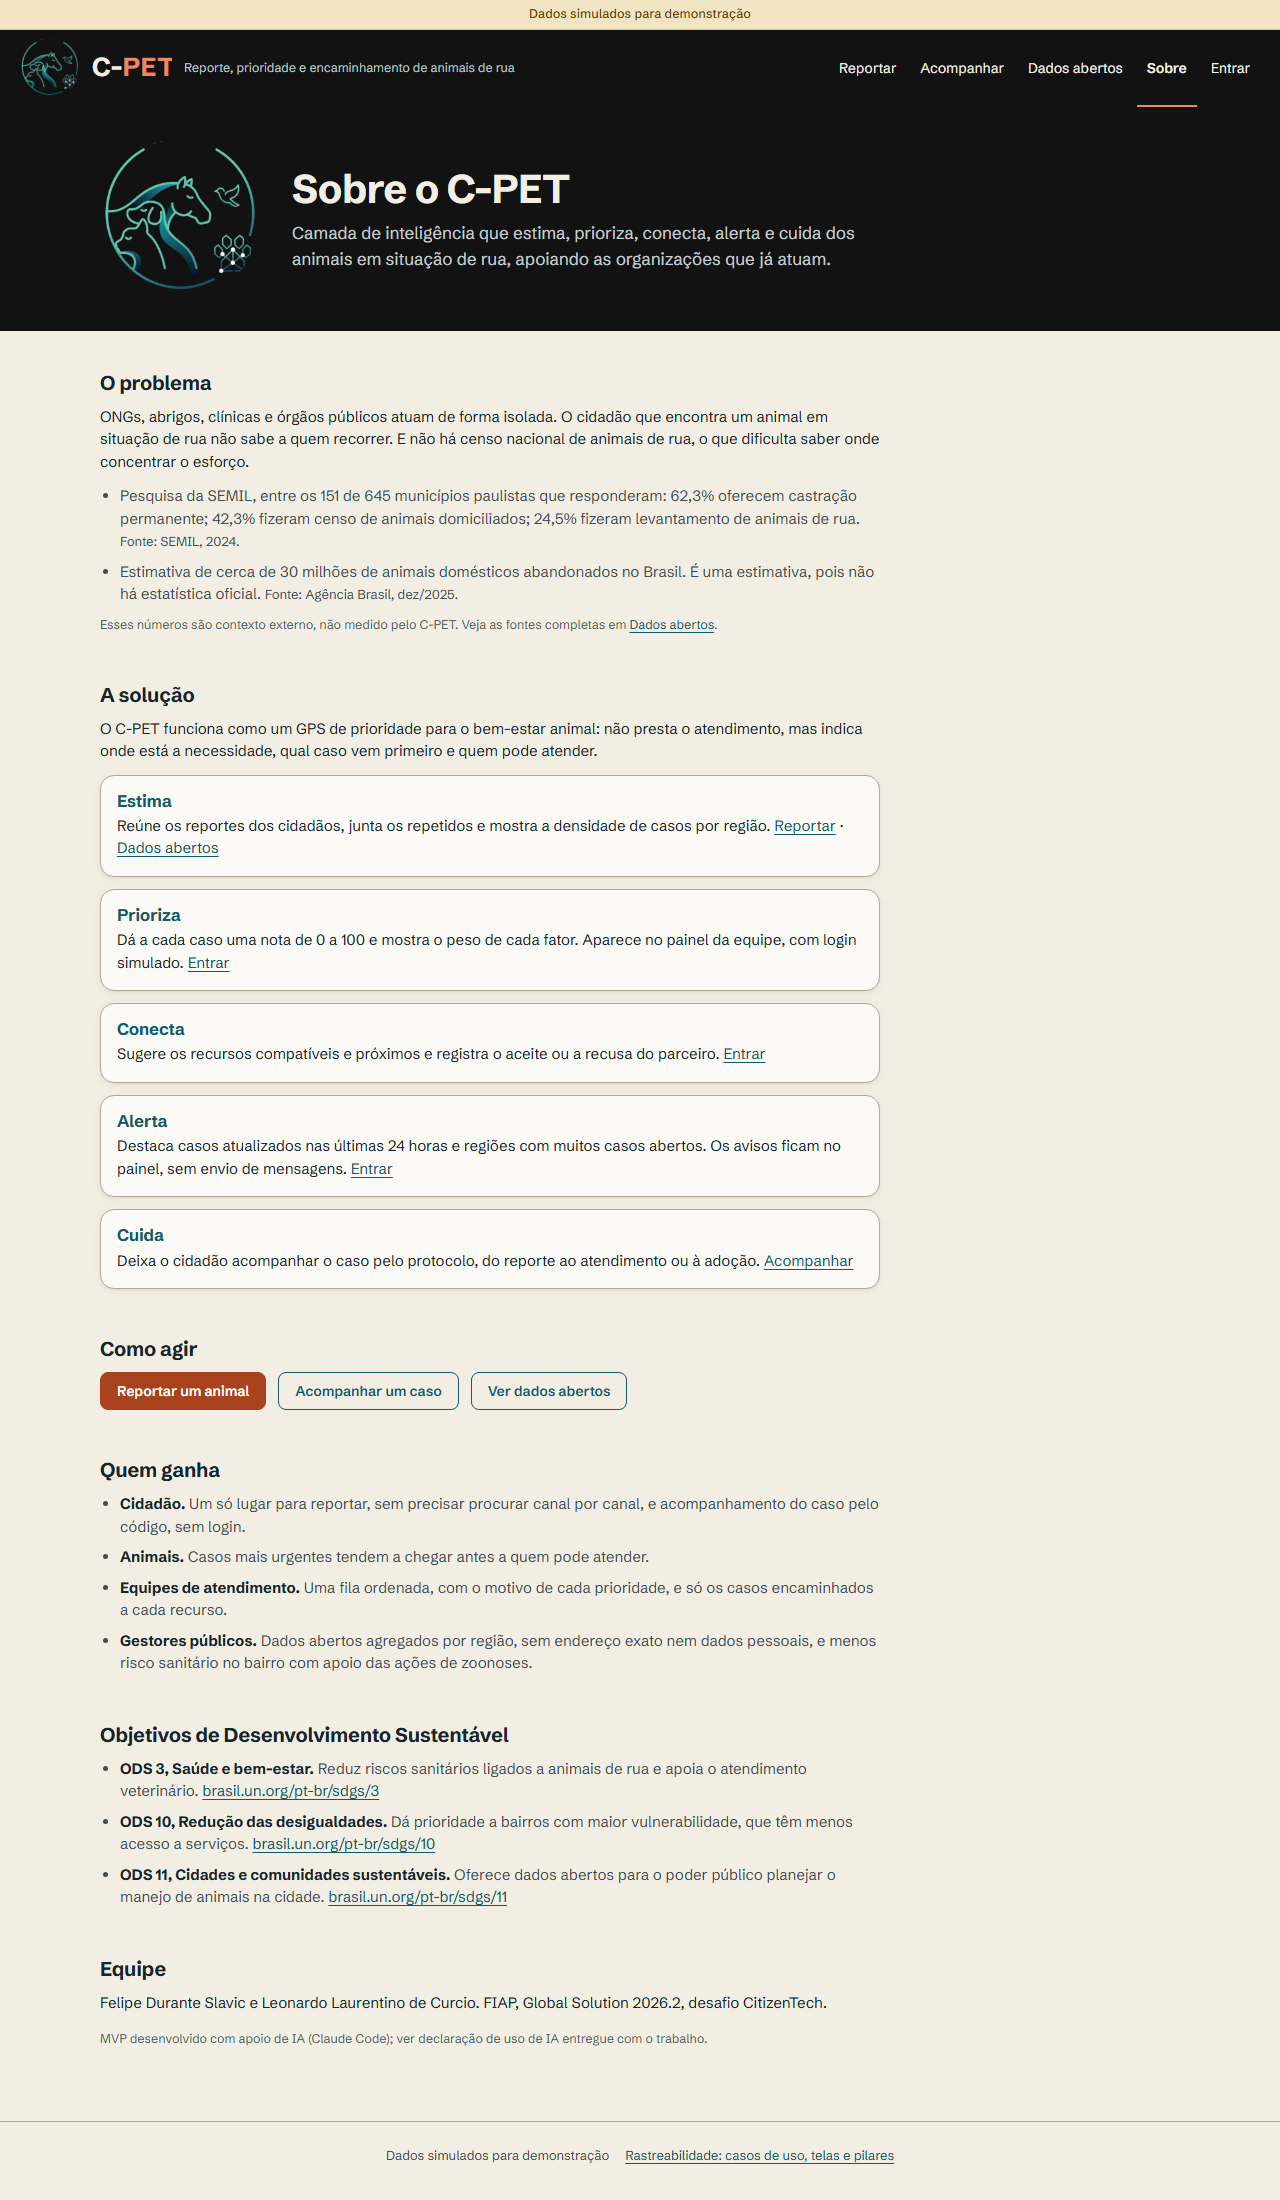
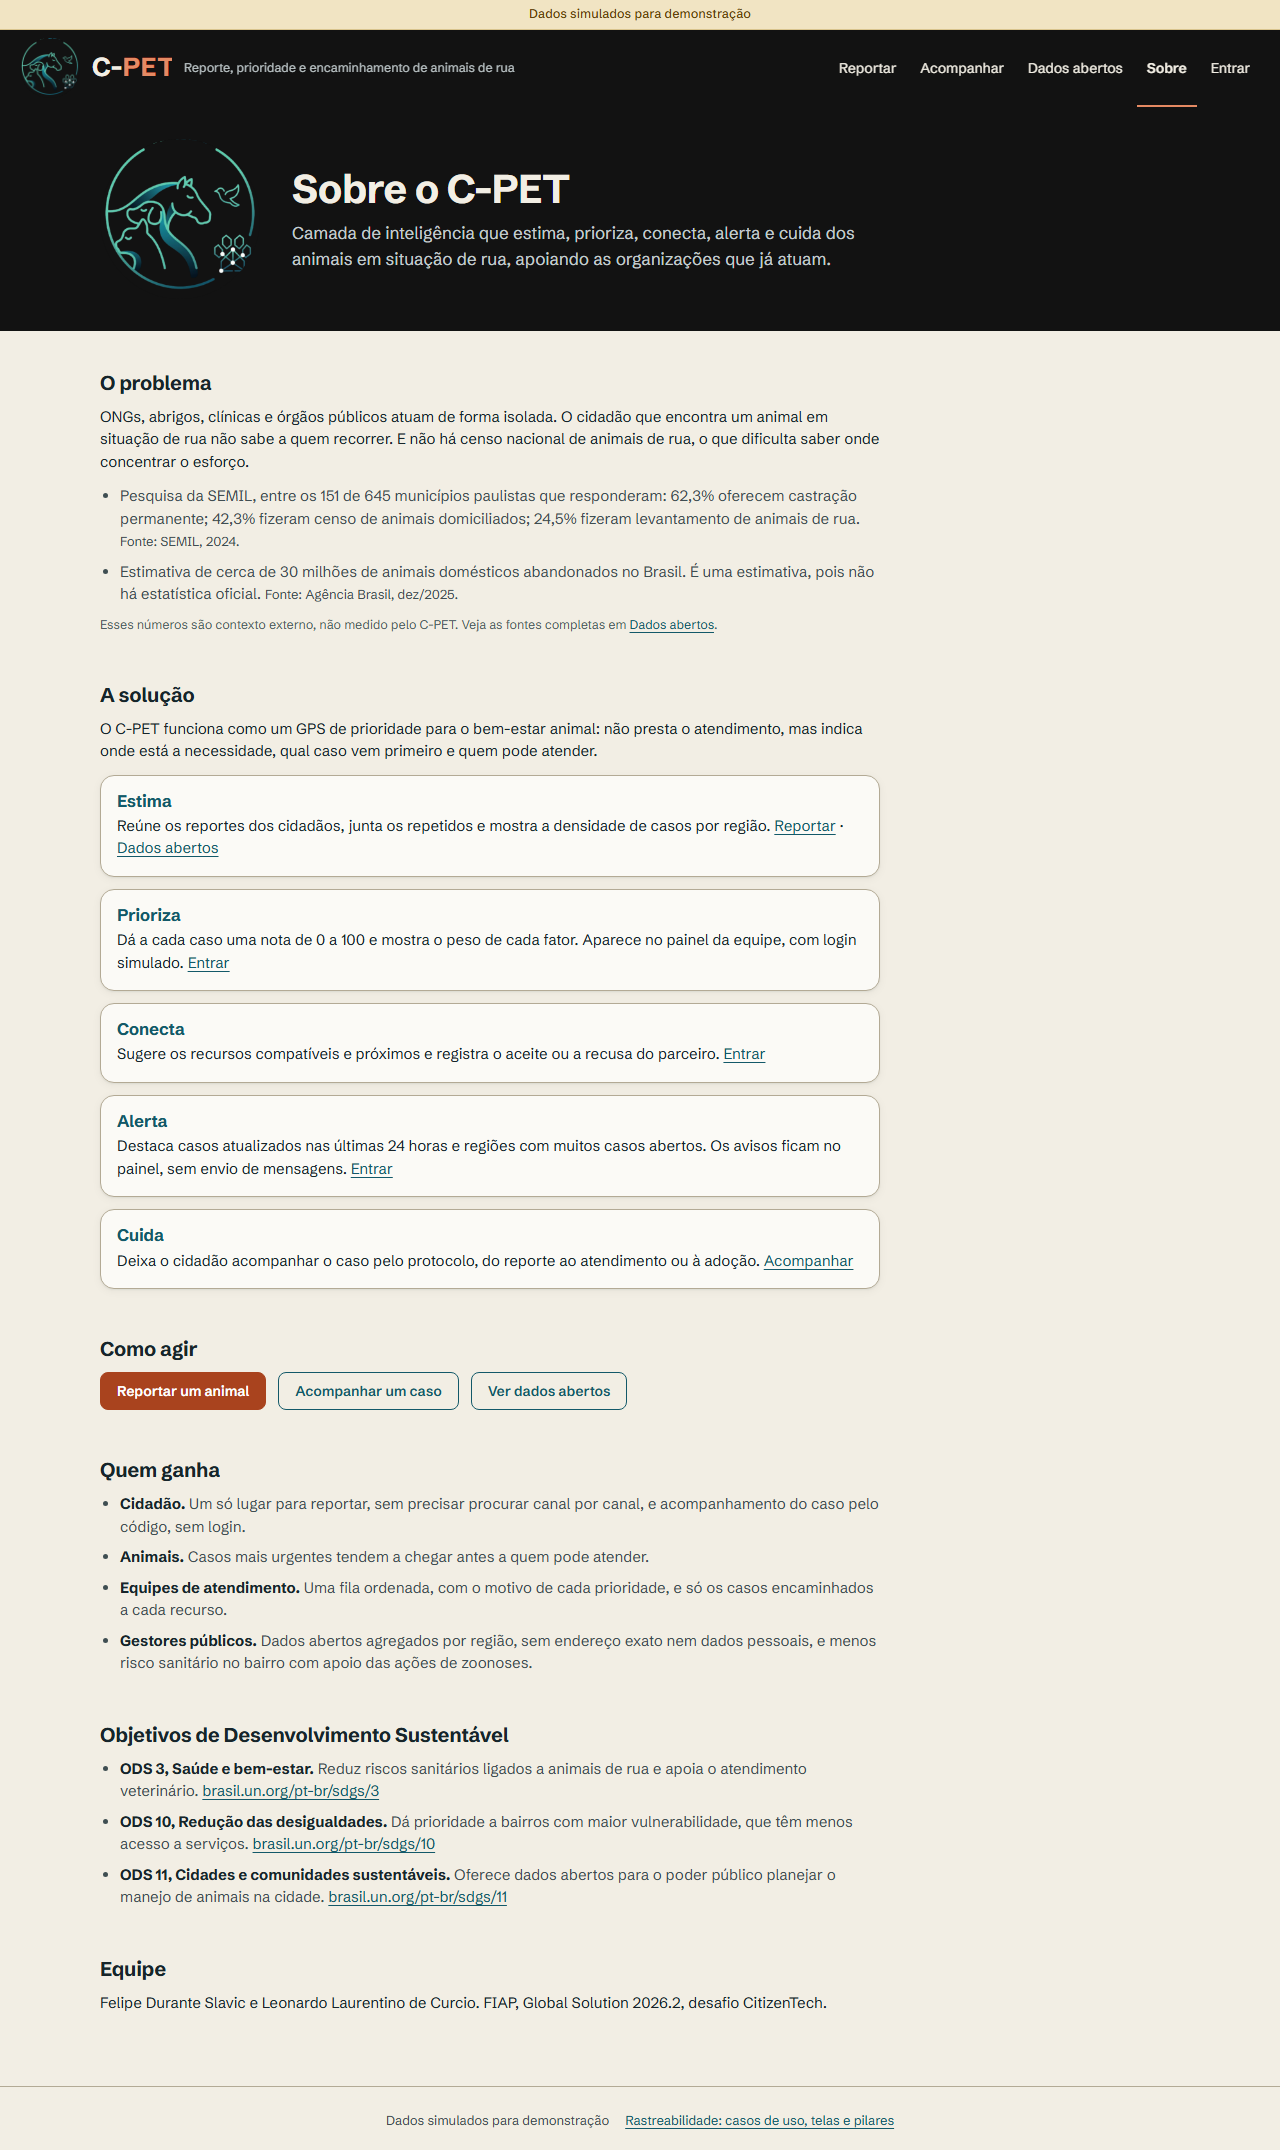
Remove linha de IA do sobre e nota no README

diff --git a/src/main/resources/static/sobre.html b/src/main/resources/static/sobre.html
@@ -77,9 +77,7 @@
 
     <section aria-labelledby="h-equipe">
       <h2 id="h-equipe">Equipe</h2>
-      <p>Felipe Durante Slavic e Leonardo Laurentino de Curcio. FIAP, Global Solution 2026.2, desafio CitizenTech.</p>
-      <p class="nota-sim mt-3">MVP desenvolvido com apoio de IA (Claude Code); ver declaração de uso de IA entregue com o trabalho.</p>
-    </section>
+      <p>Felipe Durante Slavic e Leonardo Laurentino de Curcio. FIAP, Global Solution 2026.2, desafio CitizenTech.</p>    </section>
   </main>
   <script src="js/app.js"></script>
   <script>window.CPET.iniciar("sobre.html");</script>

diff --git a/README.md b/README.md
@@ -189,3 +189,5 @@ tools/       gerador do seed
 ```
 
 Decisões e simplificações de MVP (incluindo o acesso sem senha) estão em `docs/DECISOES.md`. A direção de design está em `docs/DESIGN.md`.
+
+Este MVP foi desenvolvido com apoio de IA (Claude Code), conforme declaração de uso de IA entregue com o trabalho.
